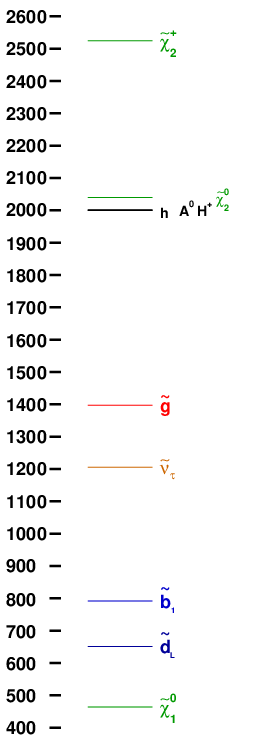
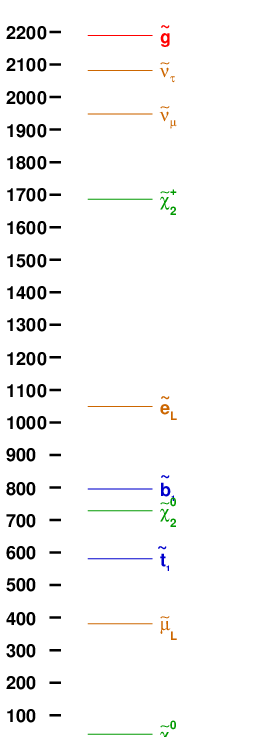
updates

diff --git a/combinations/paper/document.tex b/combinations/paper/document.tex
@@ -263,11 +263,21 @@ When adding a second Higgs Doublet, one usually softly breaks $Z_2$ symmetry
 \label{sec:gauge}
 Adding an additional gauge group like U(1)$_{B-L}$ seems more involved.
 
-\section{First attempts based on SLHA files}
+\section{fIRST ATTempts based on SLHA files}
 \label{sec:slha}
 Learning directly Lagrangians is both from a technical and from a theoretical
 point of view extremely challenging. A much easier task is learning models
 that can be properly described with SLHA files, i.e. SUSY-inspired models.
+Fig.~\ref{fig:combinationmatrix} shows the combination matrix as it has been
+used, Fig.~\ref{fig:hiscore} shows the current hiscore model (Z=3.2).
+
+\begin{figure}[h!t]
+\begin{center}
+\includegraphics[width=1.\textwidth]{matrix_aggressive.png} 
+\caption{Combination matrix}
+\label{fig:combinationmatrix}
+\end{center}
+\end{figure}
 
 \begin{figure}[h!t]
 \begin{center}
@@ -275,8 +285,8 @@ that can be properly described with SLHA files, i.e. SUSY-inspired models.
 \includegraphics[width=.49\textwidth]{ruler.png} &
 \includegraphics[width=.49\textwidth]{decays.png}
 \end{tabular}
-\caption{SLHA-based learned model, current hiscore ($Z=2.4$).}
-\label{fig_hiscore}
+\caption{SLHA-based learned model, current hiscore ($Z=3.2$).}
+\label{fig:hiscore}
 \end{center}
 \end{figure}
 

diff --git a/combinations/plotHiscore.py b/combinations/plotHiscore.py
@@ -29,12 +29,16 @@ def plot ( number, verbosity, picklefile ):
     model = obtain ( number, picklefile )
     print ( "[plotHiscore] create slha file" )
     model.createSLHAFile ( "plot.slha" )
-    print ( "[plotHiscore] now draw ruler.png" )
-    # rulerPlotter.draw ( "./plot.slha", "ruler.png" )
-    print ( "[plotHiscore] now draw decays.png" )
-    options = { "tex": True, "color": True, "dot": True }
-    ## FIXME add cross sections.
-    # decayPlotter.draw ( "./plot.slha", "decays.png", options )
+    plotRuler = True
+    if plotRuler:
+        print ( "[plotHiscore] now draw ruler.png" )
+        rulerPlotter.draw ( "./plot.slha", "ruler.png" )
+    plotDecays = True
+    if plotDecays:
+        print ( "[plotHiscore] now draw decays.png" )
+        options = { "tex": True, "color": True, "dot": True }
+        ## FIXME add cross sections.
+        decayPlotter.draw ( "./plot.slha", "decays.png", options )
     discussPredictions ( model )
 
 if __name__ == "__main__":

diff --git a/smodels_utils/plotting/rulerPlotter.py b/smodels_utils/plotting/rulerPlotter.py
@@ -147,13 +147,15 @@ def draw ( inputfile="masses.txt", outputfile="out", Range=[-1,-1],
     maxvalue=max (hmasses)*1.05 #  max(masses.values())*1.05
     if maxvalue>3100:
         maxvalue=3100.
-    minvalue=min(masses.values())*0.80
+    minvalue=min(masses.values())*0.80-30.
+    if minvalue < 0.:
+        minvalue = 0.
     logger=logging.getLogger(__name__)
-    logger.info ( "range is [%d,%d]" % ( minvalue, maxvalue ) )
     if Range[0] >=0:
         minvalue=Range[0]
     if Range[1] >=0:
         maxvalue=Range[1]
+    logger.info ( "range is [%d,%d]" % ( minvalue, maxvalue ) )
 
     ROOT.gROOT.SetBatch()
     ROOT.gROOT.SetStyle("Plain")

diff --git a/combinations/checkHiscores.py b/combinations/checkHiscores.py
@@ -1,8 +1,15 @@
 #!/usr/bin/env python3
 
-import pickle, os
+import pickle, os, sys
 from randomWalk import Model # RandomWalker
 import IPython
 
-f=open("hiscore.pcl","rb" )
+picklefile = "hiscore.pcl"
+if len(sys.argv)>1:
+    picklefile = sys.argv[1]
+
+f=open(picklefile,"rb" )
+hiscores = pickle.load(f)
+f.close()
+print ( "Check variable: hiscores" )
 IPython.embed()
